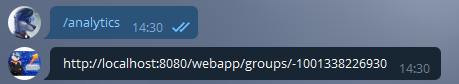
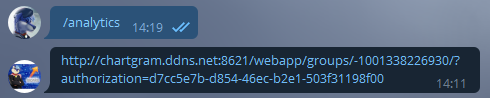
Added webapp screen and fixed analytics command screen

diff --git a/assets/docs/example_screens.md b/assets/docs/example_screens.md
@@ -1,3 +1,7 @@
+# Webapp  
+
+![webapp](/assets/images/example_screens/webapp.png)
+
 # Commands
 
 - ### Commands list  
